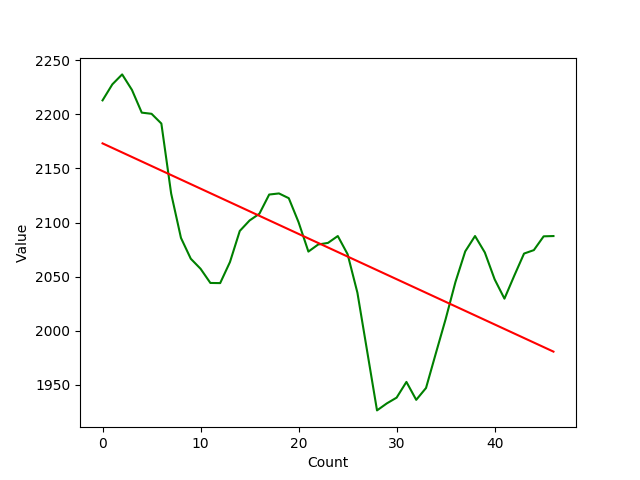
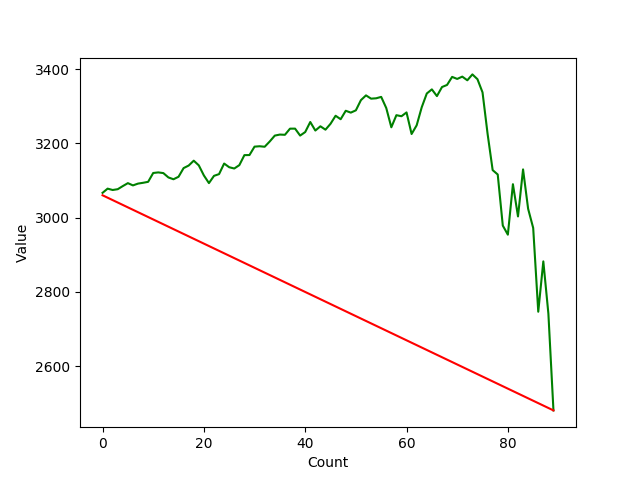
Automated Commision

diff --git a/prediction/sequential.py b/prediction/sequential.py
@@ -30,30 +30,14 @@ def regression_momentum_bias(timeseries, observation_range):
     # set initial slope and bias based on the end points of the matrix
     timeseries.raw_datapoint(timeseries.raw_size() - 1)
     end_point_slope = (timeseries.raw_datapoint(timeseries.raw_size() - 1) - timeseries.raw_datapoint(0)) / timeseries.raw_size()
+    end_point_bias = end_point_slope + timeseries.raw_datapoint(0)
 
-    high, high_index = -1, 0
-    low, low_index = 10000000, 0
-    for i in range(timeseries.raw_size()):
-        if timeseries.raw_datapoint(i) > high:
-            high = timeseries.raw_datapoint(i)
-            high_index = i
-        else:
-            low = timeseries.raw_datapoint(i)
-            low_index = i
+    line = [i * end_point_slope + end_point_bias for i in range(timeseries.raw_size())]
 
-    high_low_slope = 0.00
-    high_low_slope = (timeseries.raw_datapoint(high_index) - timeseries.raw_datapoint(low_index)) / (high_index - low_index)
+    graph(timeseries.raw_matrix(), "green", "trend.png", False)
+    graph(line, "red", "trend.png", False)
     
-    regression_slope = (high_low_slope + end_point_slope) / 2
-
-    bias_momentum = 0.00 # smaller the better
-    for i in range(timeseries.raw_size() - 1, timeseries.raw_size() - observation_range, -1):
-        if timeseries.raw_datapoint(timeseries.raw_size() - 1) < timeseries.raw_datapoint(i):
-            bias_momentum += 1
-        else:
-            bias_momentum -= 1
-    
-    bias_momentum *= regression_slope # could be positive or negative
+    bias_momentum = 0.00
     return bias_momentum
 
 def sequential_prediction(model=None, stock_id=None, date=None, graphing=True, log=True):
